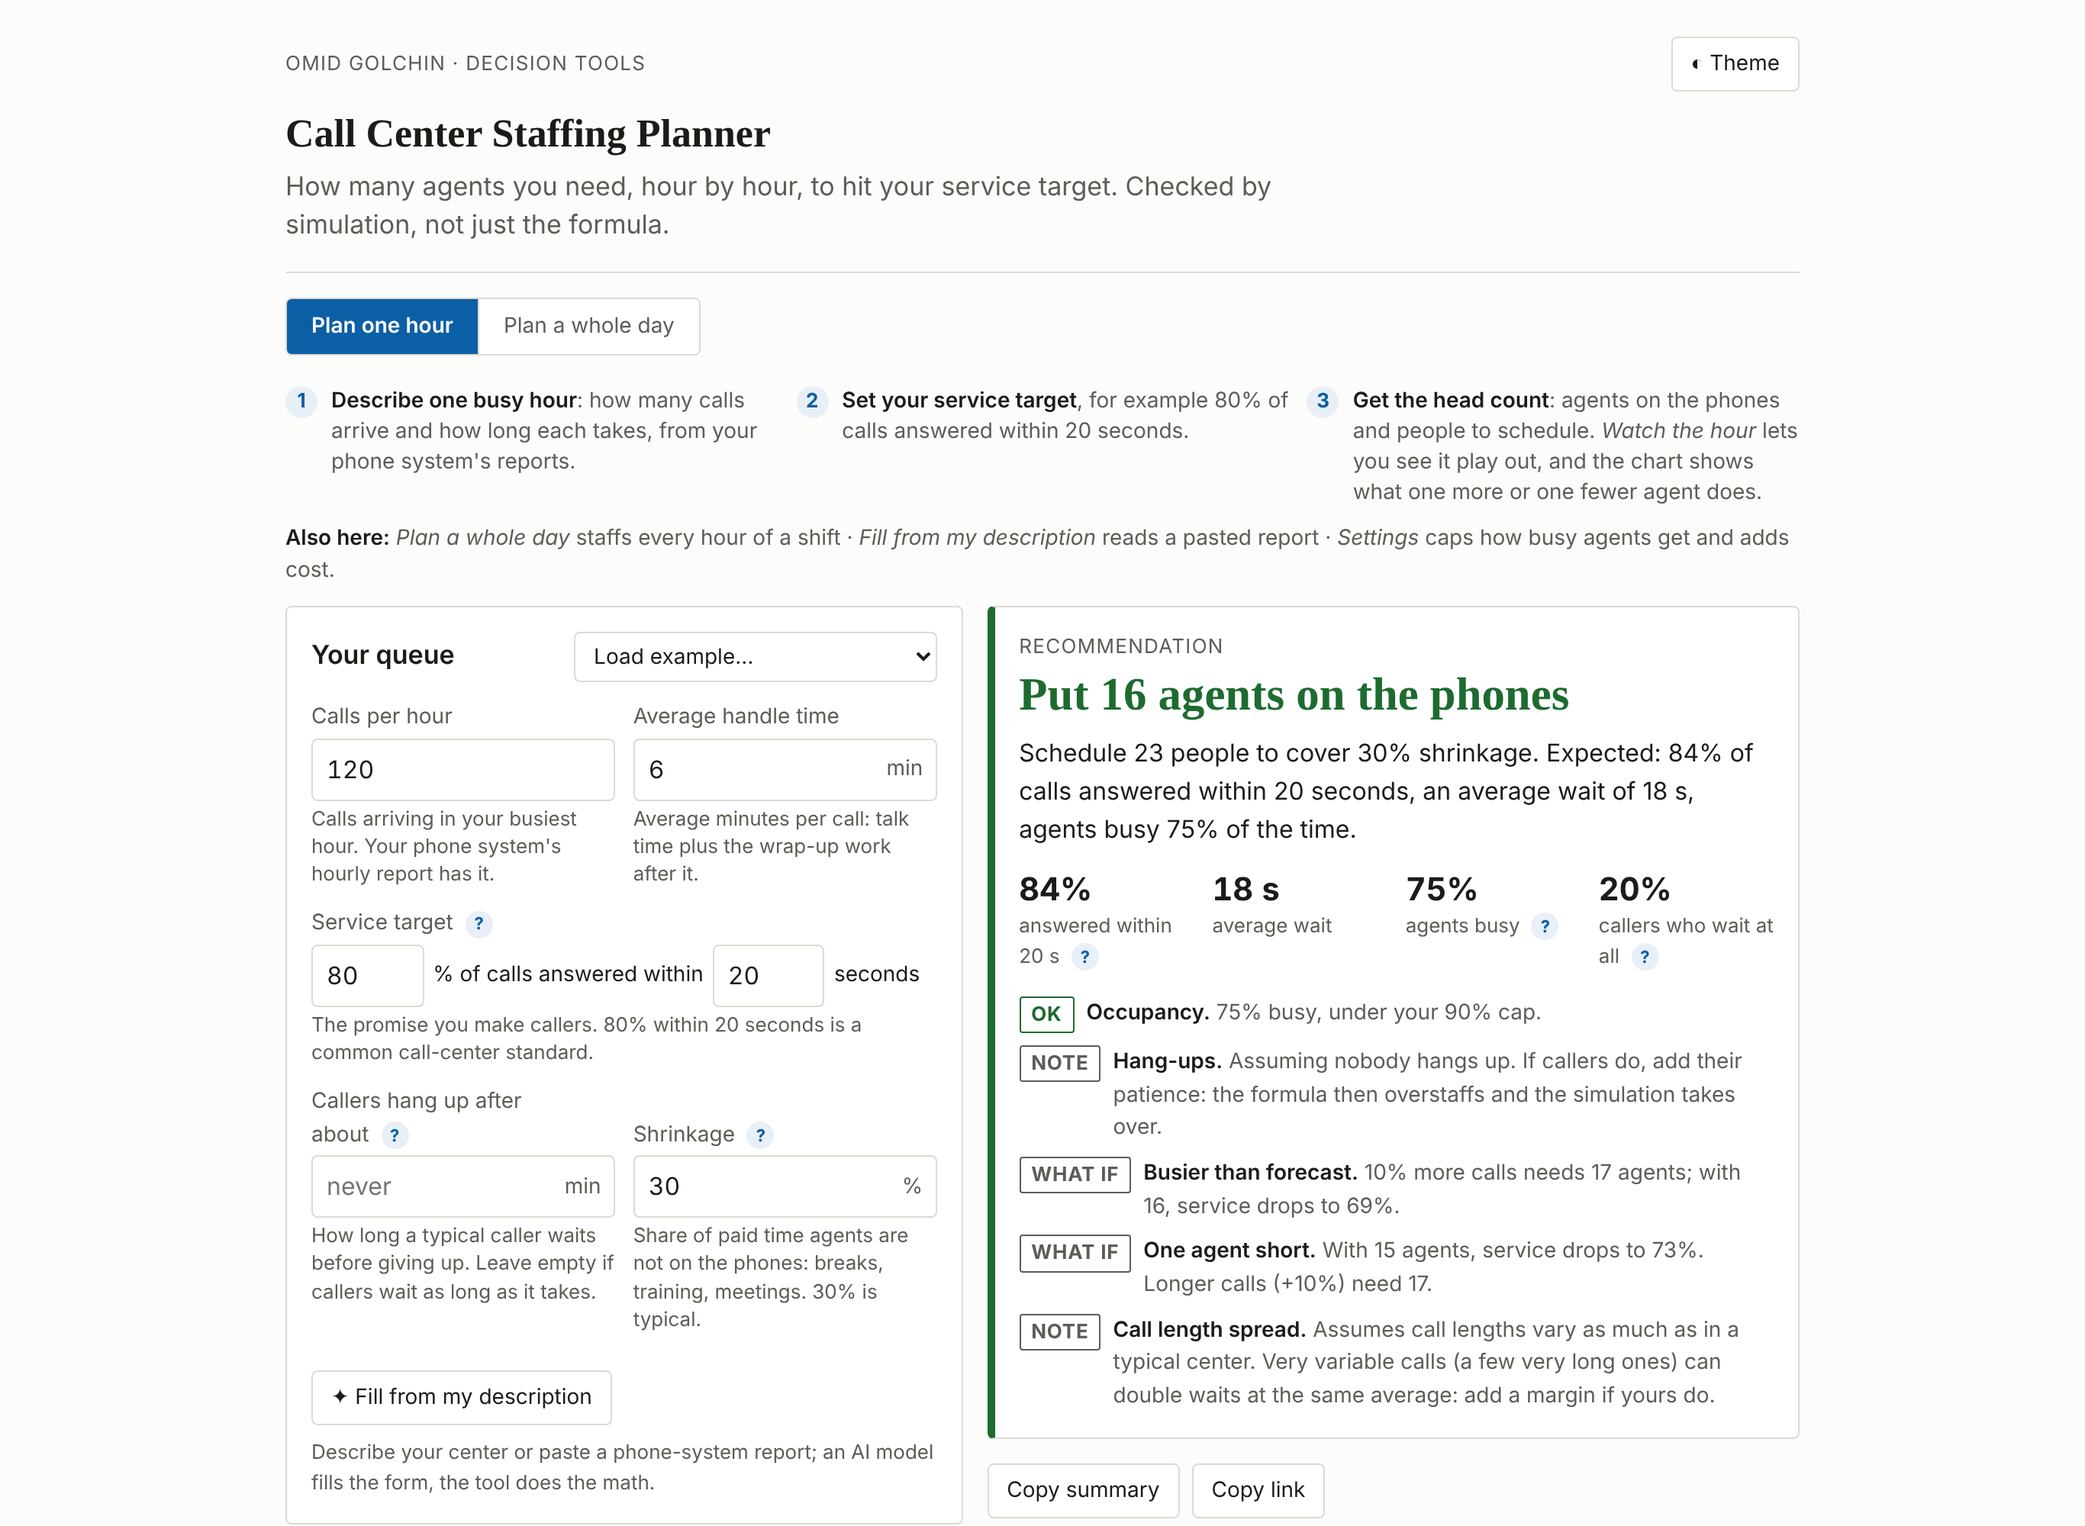
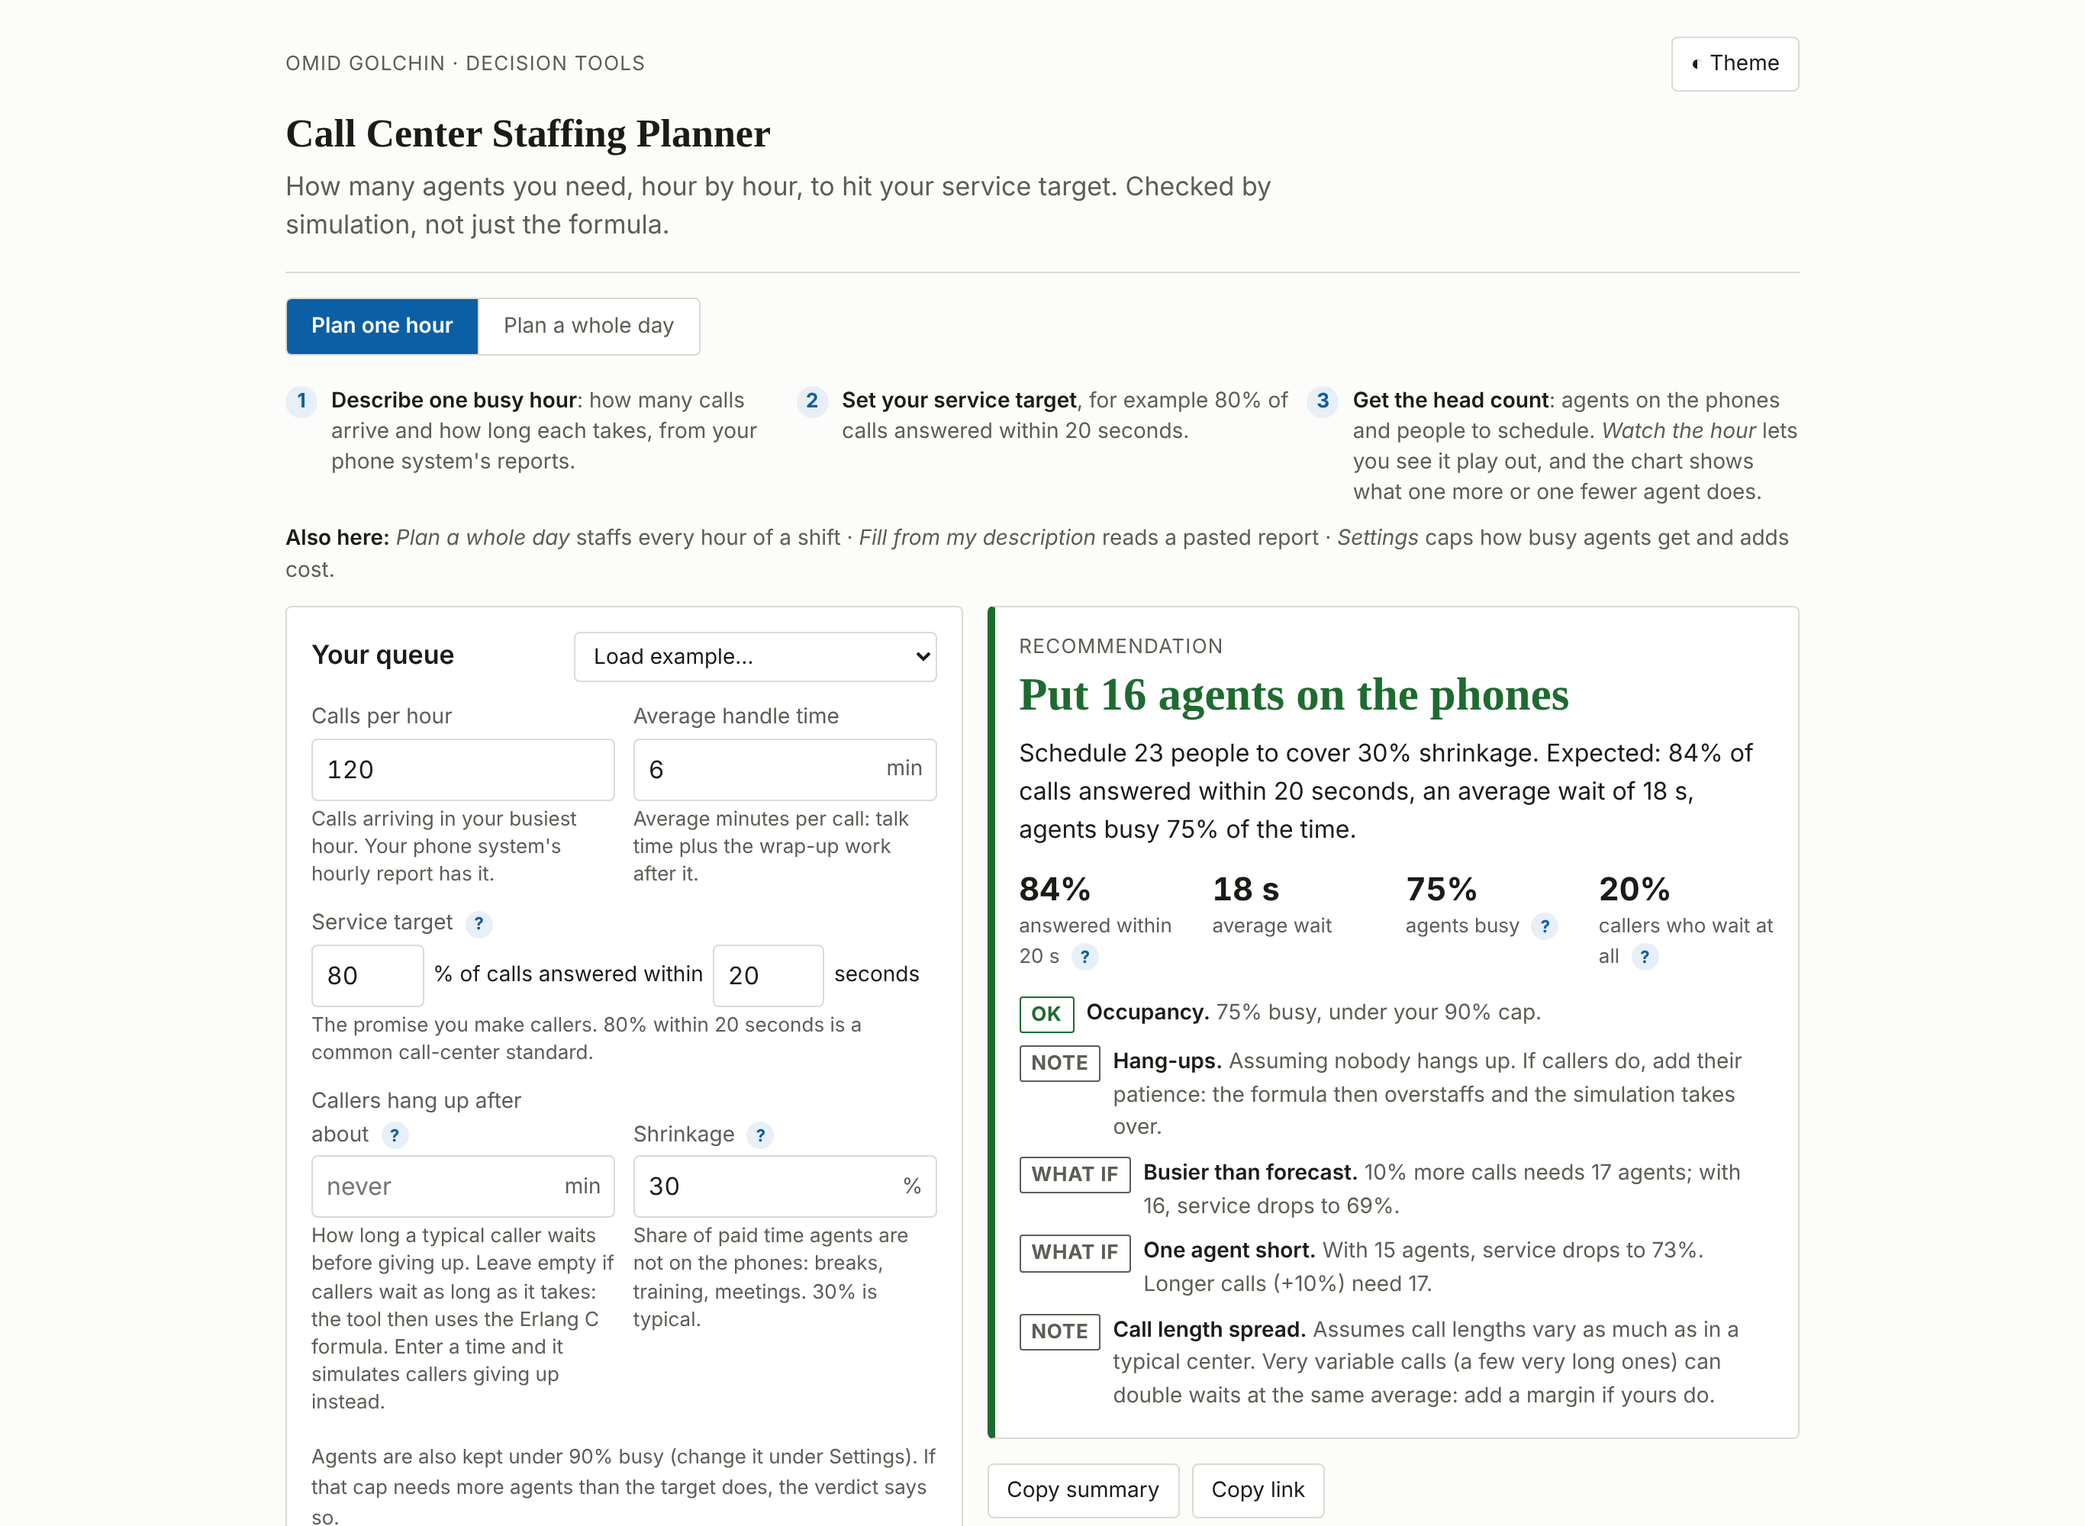
Show the occupancy cap and the day plan's assumptions where they apply; plainer error messages
Kit: every ? has a hover title, a Skip to the result link on narrow screens, and an example banner for prefilled demo content. README, hero GIF and screenshots regenerated from the page.

Changed region(s): [[0.1245, 0.868, 0.4667, 1.0]]

diff --git a/docs/app.js b/docs/app.js
@@ -76,13 +76,13 @@
     var v = { calls: num("calls"), aht: num("aht"), tPct: num("tPct"), tSec: num("tSec"), patience: num("patience"), shrink: num("shrink"), occCap: num("occCap"), cost: num("cost") };
     var ok = true;
     function need(id, cond, msg) { fieldError(id, cond ? "" : msg); if (!cond) ok = false; }
-    need("calls", v.calls > 0 && v.calls <= 20000, "Between 1 and 20,000.");
-    need("aht", v.aht > 0 && v.aht <= 240, "Minutes, above 0.");
-    need("tPct", v.tPct > 0 && v.tPct < 100, "1 to 99.9.");
-    need("tSec", v.tSec > 0 && v.tSec <= 3600, "Seconds, above 0.");
+    need("calls", v.calls > 0 && v.calls <= 20000, "Enter the calls in one hour, from 1 to 20,000.");
+    need("aht", v.aht > 0 && v.aht <= 240, "Enter the average minutes per call, above 0 (up to 240).");
+    need("tPct", v.tPct > 0 && v.tPct < 100, "Enter a percentage above 0 and below 100, such as 80.");
+    need("tSec", v.tSec > 0 && v.tSec <= 3600, "Enter the answer-time limit in seconds, above 0.");
     need("patience", v.patience === null || v.patience > 0, "Minutes above 0, or empty for never.");
-    need("shrink", v.shrink !== null && v.shrink >= 0 && v.shrink < 80, "0 to 79.");
-    need("occCap", v.occCap >= 50 && v.occCap <= 100, "50 to 100.");
+    need("shrink", v.shrink !== null && v.shrink >= 0 && v.shrink < 80, "Enter a share from 0 up to (not including) 80%.");
+    need("occCap", v.occCap >= 50 && v.occCap <= 100, "Enter a percentage from 50 to 100; 85 to 90 is typical.");
     if (ok && v.patience === null && v.calls / 60 * v.aht > 3000) { need("calls", false, "Too large to plan here."); }
     return ok ? v : null;
   }
@@ -91,6 +91,7 @@
     var urlState = { mode: "hour" }; IDS_H.forEach(function (k) { urlState[k] = $(k).value; }); Tool.writeParams(urlState);
     if (!v) { $("vTitle").textContent = "Check the highlighted inputs"; $("vBody").textContent = ""; $("kpis").innerHTML = ""; $("checks").innerHTML = ""; $("verdict").className = "panel verdict v-neutral"; return; }
     var lam = v.calls / 60, T = v.tSec / 60, level = v.tPct / 100, cap = v.occCap / 100, sh = v.shrink / 100;
+    $("capNote").textContent = "Agents are also kept under " + v.occCap + "% busy (change it under Settings). If that cap needs more agents than the target does, the verdict says so.";
     var e = Staffing.staffErlang(lam, v.aht, T, level, cap);
     var res = { v: v, lam: lam, T: T, level: level, cap: cap, sh: sh, erlang: e };
     if (v.patience) {
@@ -215,8 +216,8 @@
     function need(id, cond, msg) { fieldError(id, cond ? "" : msg); if (!cond) ok = false; }
     need("dCalls", $("dShape").value === "custom" || num("dCalls") > 0, "Above 0.");
     need("dAht", num("dAht") > 0, "Minutes, above 0.");
-    need("dShrink", num("dShrink") >= 0 && num("dShrink") < 80, "0 to 79.");
-    need("dPct", num("dPct") > 0 && num("dPct") < 100, "1 to 99.9.");
+    need("dShrink", num("dShrink") >= 0 && num("dShrink") < 80, "Enter a share from 0 up to (not including) 80%.");
+    need("dPct", num("dPct") > 0 && num("dPct") < 100, "Enter a percentage above 0 and below 100, such as 80.");
     need("dMin", num("dMin") >= 1, "1 or more.");
     need("dClose", Number($("dClose").value) > Number($("dOpen").value), "After the opening hour.");
     var dc = ok ? dayCalls() : null;
@@ -229,13 +230,13 @@
     var span = peakHours.length ? fmtH(peakHours[0]) + "–" + fmtH(peakHours[peakHours.length - 1] + 1) : "";
     var cost = num("dCost");
     $("dTitle").textContent = "Peak: " + peakC + " agents, " + span;
-    $("dBody").textContent = "Across the day: " + Math.round(plan.agentHours) + " agent-hours on the phones and " + Math.round(plan.paidHours) + " paid hours after " + num("dShrink") + "% shrinkage" + (cost ? " (" + F.money(plan.paidHours * cost) + " at " + F.money(cost) + " an hour)" : "") + ". Expected: " + F.pct(plan.daySL, 0) + " of the day's " + F.int(plan.totalCalls) + " calls answered within " + num("dSec") + " seconds.";
+    $("dBody").textContent = "Across the day: " + Math.round(plan.agentHours) + " agent-hours on the phones and " + Math.round(plan.paidHours) + " paid hours after " + num("dShrink") + "% shrinkage" + (cost ? " (" + F.money(plan.paidHours * cost) + " at " + F.money(cost) + " an hour)" : "") + ". Expected: " + F.pct(plan.daySL, 0) + " of the day's " + F.int(plan.totalCalls) + " calls answered within " + num("dSec") + " seconds. Agents are kept under " + Math.round(cap * 100) + "% busy (the cap set under Settings in Plan one hour). The day plan assumes callers do not hang up, which is slightly generous; if yours do, check the busiest hour in Plan one hour with a patience time.";
     var flat = Staffing.staffErlang(plan.totalCalls / dc.hours.length / 60, aht, T, level, cap).c;
     var peakLam = Math.max.apply(null, dc.calls) / 60, slFlat = Staffing.erlangMetrics(peakLam, aht, flat, T).sl;
     $("dKpis").innerHTML = [[peakC, "agents at the peak"], [Math.round(plan.agentHours), "agent-hours"], [Math.round(plan.paidHours), "paid hours", "shrink"], [F.pct(plan.daySL, 0), "of calls within target"]].map(function (x) { return '<div class="kpi"><span class="k-val">' + x[0] + '</span><span class="k-lbl">' + x[1] + (x[2] ? ' <button type="button" data-tip="' + x[2] + '"></button>' : "") + "</span></div>"; }).join("");
     var cks = [["info", "WHY", "Hour by hour", "Staffing the whole day for the average hour (" + flat + " agents) would leave the peak at " + F.pct(Math.max(0, slFlat), 0) + " within target."]];
     var capped = plan.rows.filter(function (r) { return r.binding === "occupancy"; }).length;
-    cks.push(capped ? ["warn", "RAISED", "Occupancy", capped + " hour" + (capped === 1 ? "" : "s") + " staffed up to keep agents under " + Math.round(cap * 100) + "% busy."] : ["ok", "OK", "Occupancy", "Every hour under " + Math.round(cap * 100) + "% busy."]);
+    cks.push(capped ? ["warn", "RAISED", "Occupancy", capped + " hour" + (capped === 1 ? "" : "s") + " staffed up to keep agents under " + Math.round(cap * 100) + "% busy."] : ["ok", "OK", "Occupancy", "Every hour under " + Math.round(cap * 100) + "% busy (the cap from Settings in Plan one hour)."]);
     var minned = plan.rows.filter(function (r) { return r.binding === "minimum"; }).length;
     if (minned) cks.push(["info", "FLOOR", "Quiet hours", minned + " hour" + (minned === 1 ? "" : "s") + " held at your minimum of " + num("dMin") + " agents."]);
     $("dChecks").innerHTML = cks.map(function (x) { return '<div class="check is-' + x[0] + '"><span class="badge">' + x[1] + '</span><div><span class="c-name">' + x[2] + '.</span> <span class="c-text">' + x[3] + "</span></div></div>"; }).join("");

diff --git a/docs/index.html b/docs/index.html
@@ -60,8 +60,9 @@
           <div class="field"><label for="aht">Average handle time</label><div class="input-wrap"><input id="aht" type="number" min="0.1" step="any"><span class="unit">min</span></div><div class="hint">Average minutes per call: talk time plus the wrap-up work after it.</div></div>
           <div class="field full"><label>Service target <button type="button" data-tip="sl"></button></label>
             <div class="target-row"><input id="tPct" type="number" min="1" max="99.9" step="any" aria-label="percent of calls"> % of calls answered within <input id="tSec" type="number" min="1" step="any" aria-label="seconds"> seconds</div><div class="hint">The promise you make callers. 80% within 20 seconds is a common call-center standard.</div></div>
-          <div class="field"><label for="patience">Callers hang up after about <button type="button" data-tip="abandon"></button></label><div class="input-wrap"><input id="patience" type="number" min="0" step="any" placeholder="never"><span class="unit">min</span></div><div class="hint">How long a typical caller waits before giving up. Leave empty if callers wait as long as it takes.</div></div>
+          <div class="field"><label for="patience">Callers hang up after about <button type="button" data-tip="abandon"></button></label><div class="input-wrap"><input id="patience" type="number" min="0" step="any" placeholder="never"><span class="unit">min</span></div><div class="hint">How long a typical caller waits before giving up. Leave empty if callers wait as long as it takes: the tool then uses the Erlang C formula. Enter a time and it simulates callers giving up instead.</div></div>
           <div class="field"><label for="shrink">Shrinkage <button type="button" data-tip="shrink"></button></label><div class="input-wrap"><input id="shrink" type="number" min="0" max="80" step="any"><span class="unit">%</span></div><div class="hint">Share of paid time agents are not on the phones: breaks, training, meetings. 30% is typical.</div></div>
+          <p class="footnote" id="capNote" style="grid-column:1/-1;margin:4px 0 0"></p>
         </div>
         <div class="actions" style="margin-top:12px">
           <button type="button" id="assistToggle">✦ Fill from my description</button>
@@ -152,7 +153,7 @@ occupancy = a / c</div>
         <div class="fields">
           <div class="field"><label for="dCalls">Calls per day</label><input id="dCalls" type="number" min="1" step="1" inputmode="numeric"><div class="hint">All calls expected in the day. Use a typical day of the week you are planning.</div></div>
           <div class="field"><label for="dShape">Shape of the day</label>
-            <select id="dShape"><option value="nyc">Typical weekday</option><option value="flat">Flat</option><option value="custom">My hourly counts</option></select><div class="hint">How calls spread over the day. "Typical weekday" peaks late morning; pick your own counts if you have them.</div></div>
+            <select id="dShape"><option value="nyc">Typical weekday</option><option value="flat">Flat</option><option value="custom">My hourly counts</option></select><div class="hint">How calls spread over the day. "Typical weekday" is the hourly pattern of New York City 311 calls in January 2024, scaled to your daily total; choose "My hourly counts" to paste yours.</div></div>
           <div class="field"><label for="dOpen">Open from</label><select id="dOpen"></select><div class="hint">The first hour you take calls.</div></div>
           <div class="field"><label for="dClose">Until</label><select id="dClose"></select><div class="hint">The hour you stop taking calls.</div></div>
           <div class="field full" id="pasteWrap" hidden><label for="dPaste">Calls in each open hour, in order</label><textarea class="paste" id="dPaste" placeholder="e.g. 80, 140, 210, 230, 200, 160, 150, 170, 140, 110, 90, 60"></textarea><div class="hint" id="pasteHint"></div></div>

diff --git a/docs/tool-common.js b/docs/tool-common.js
@@ -9,6 +9,7 @@
  *   Tool.explain(glossary)         "?" buttons that open a plain-language explanation
  *   Tool.siblings(currentRepo)     the "More tools" footer line, from one shared list
  *   Tool.tabs(tablist)             arrow-key support for a mode switch
+ *   Tool.exampleBanner(form, text) marks prefilled example content where it sits
  *
  * No dependencies. Works from file:// and on GitHub Pages.
  */
@@ -433,6 +434,7 @@
       if (btn.tagName === "BUTTON") btn.type = "button";
       if (!btn.textContent.trim()) btn.textContent = "?";
       btn.setAttribute("aria-label", "What is " + g.t.replace(/[.?:]$/, "") + "?");
+      btn.title = "Explain: " + g.t.replace(/[.?:]$/, "");
       btn.setAttribute("aria-expanded", "false");
       // keep the "?" on the same line as the last word before it
       var prev = btn.previousSibling;
@@ -531,16 +533,45 @@
     sync(); new MutationObserver(sync).observe(list, { subtree: true, attributes: true, attributeFilter: ["aria-selected"] });
   }
 
+
+  /* ---------------- example banner, jump to result ---------------- */
+  // Marks prefilled example content where it sits, so a first-time visitor
+  // does not read the demo verdict as their own. text = null hides it.
+  function exampleBanner(form, text) {
+    if (!form) return;
+    var b = form.querySelector(":scope > .ex-banner");
+    if (!text) { if (b) b.hidden = true; return; }
+    if (!b) {
+      b = document.createElement("p"); b.className = "ex-banner"; b.setAttribute("role", "status");
+      var head = form.querySelector(":scope > .panel-head");
+      if (head && head.nextSibling) form.insertBefore(b, head.nextSibling); else form.insertBefore(b, form.firstChild);
+    }
+    b.hidden = false;
+    b.innerHTML = '<span class="ex-tag">Example</span> ' + text;
+  }
+  // On narrow screens the inputs come first; give a way straight to the result.
+  function jumpLinks() {
+    document.querySelectorAll(".work").forEach(function (w, i) {
+      var form = w.querySelector("form.panel"), v = w.querySelector(".verdict");
+      if (!form || !v || form.querySelector(".jump")) return;
+      if (!v.id) v.id = "result-" + i;
+      var a = document.createElement("a"); a.className = "jump"; a.href = "#" + v.id; a.textContent = "Skip to the result ↓";
+      var head = form.querySelector(":scope > .panel-head");
+      if (head && head.nextSibling) form.insertBefore(a, head.nextSibling); else form.insertBefore(a, form.firstChild);
+    });
+  }
+
   if (typeof document !== "undefined") {
     document.addEventListener("DOMContentLoaded", function () {
       var m = location.pathname.match(/\/([^\/]+)\/(?:docs\/)?(?:index\.html)?$/);
       siblings(m ? m[1] : "");
       tabs();
       alignFields();
+      jumpLinks();
     });
   }
 
-  var api = { explain: explain, alignFields: alignFields, closeTip: closeTip, siblings: siblings, tabs: tabs, TOOLS: TOOLS, readParams: readParams, writeParams: writeParams, copy: copy, fmt: fmt, lineChart: lineChart, niceTicks: niceTicks, assist: assist, _buildPrompt: buildPrompt, _parseReply: parseReply, _quoteFound: quoteFound, _coerce: coerce };
+  var api = { explain: explain, alignFields: alignFields, exampleBanner: exampleBanner, jumpLinks: jumpLinks, closeTip: closeTip, siblings: siblings, tabs: tabs, TOOLS: TOOLS, readParams: readParams, writeParams: writeParams, copy: copy, fmt: fmt, lineChart: lineChart, niceTicks: niceTicks, assist: assist, _buildPrompt: buildPrompt, _parseReply: parseReply, _quoteFound: quoteFound, _coerce: coerce };
   if (typeof module !== "undefined" && module.exports) module.exports = api;
   if (typeof window !== "undefined") window.Tool = api;
 })();

diff --git a/docs/tool.css b/docs/tool.css
@@ -138,3 +138,7 @@ select.example { font-size: var(--fs-small); }
 .fields.sg-on > :not(.sg) { margin-bottom: var(--sp-3); }
 .fields.sg-on > .group-label { margin: var(--sp-2) 0 6px; }
 .field-after:empty { display: none; }
+.ex-banner { margin: 0 0 var(--sp-3); padding: 6px 10px; border-radius: var(--radius); background: var(--accent-soft); color: var(--fg); font-size: var(--fs-small); line-height: 1.45; }
+.ex-banner .ex-tag { display: inline-block; font-size: var(--fs-caption); font-weight: 700; letter-spacing: .04em; text-transform: uppercase; color: var(--accent); margin-right: 4px; }
+.jump { display: none; }
+@media (max-width: 820px) { .jump { display: inline-block; margin: 0 0 var(--sp-3); font-size: var(--fs-small); font-weight: 600; } }
